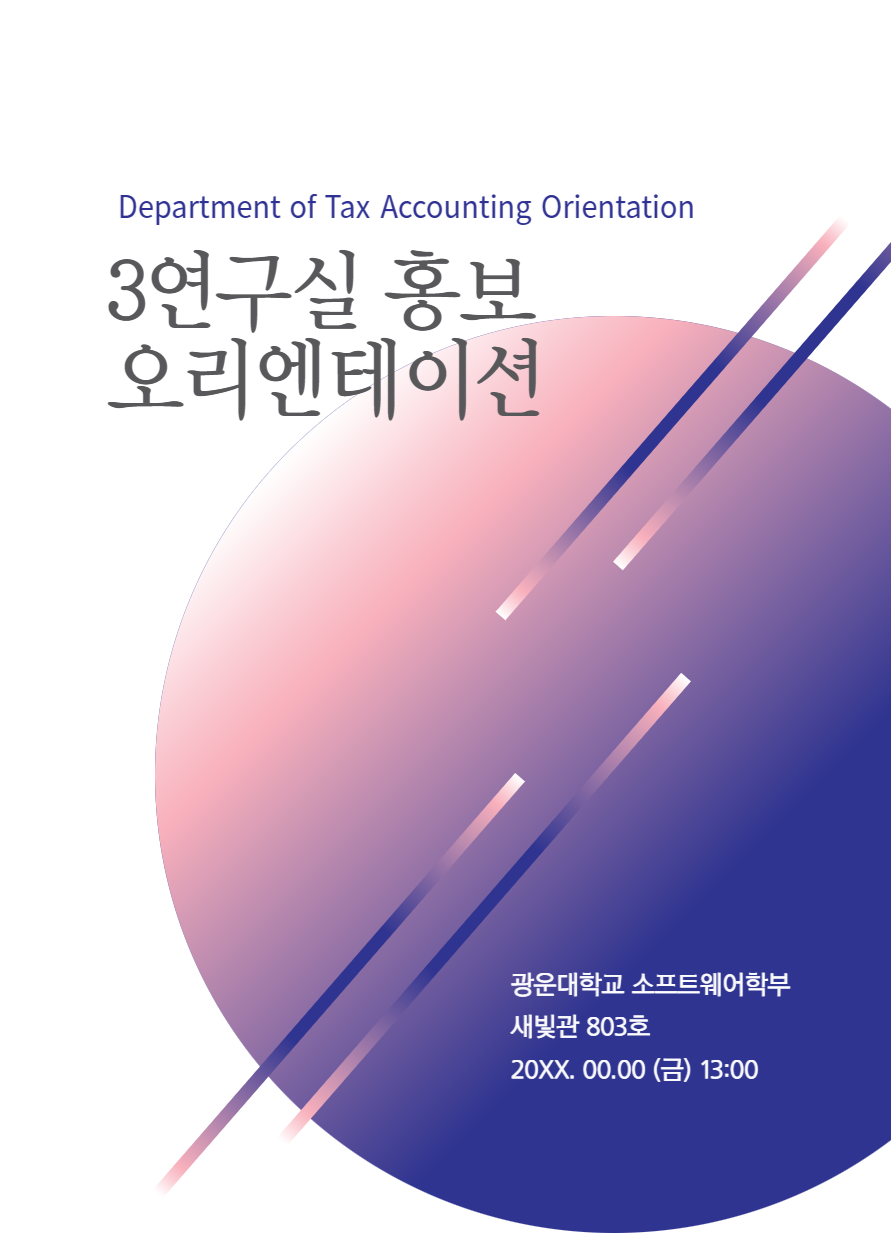
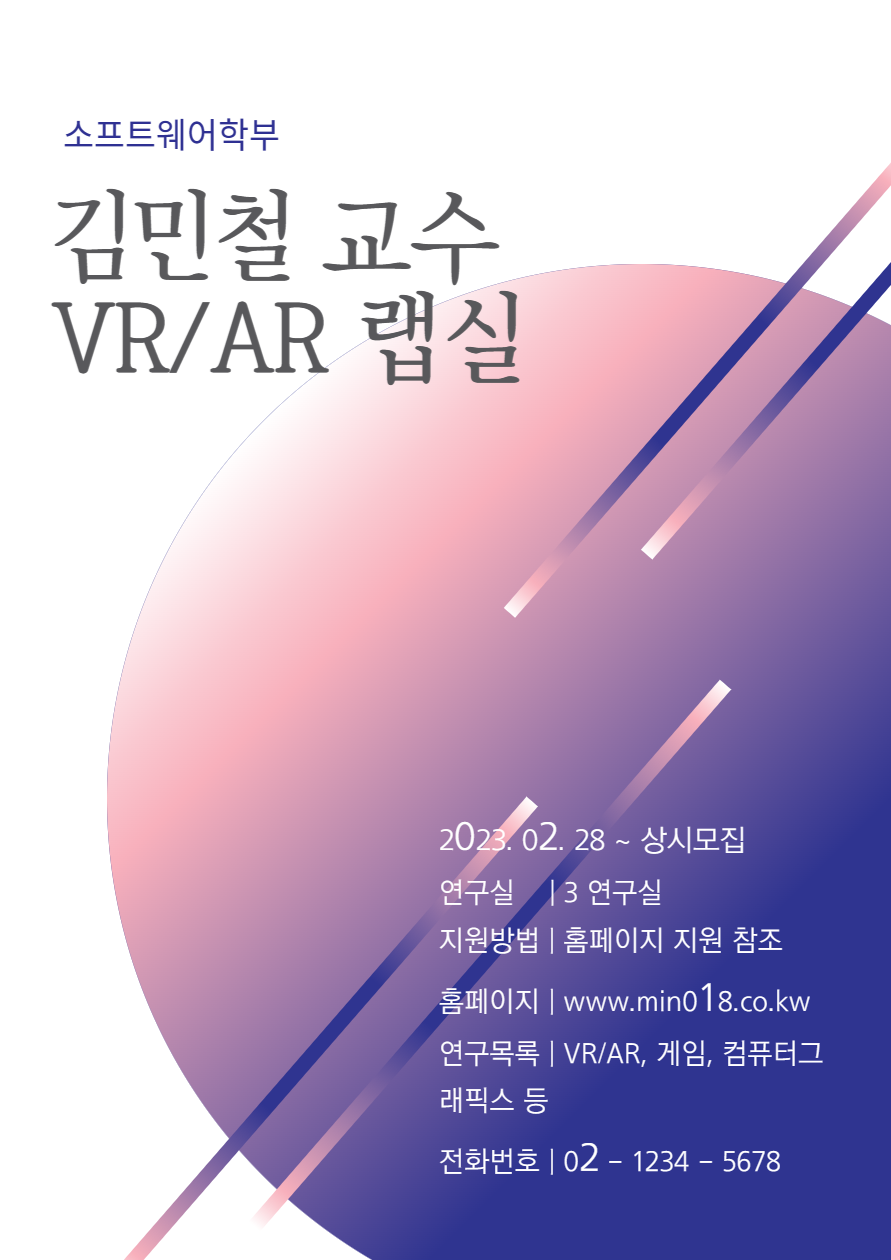
이미지 변경 및 포스터 텍스트 삭제

diff --git a/WindowsFormsApp2/UDC/Room_Board.Designer.cs b/WindowsFormsApp2/UDC/Room_Board.Designer.cs
@@ -31,21 +31,22 @@
             System.ComponentModel.ComponentResourceManager resources = new System.ComponentModel.ComponentResourceManager(typeof(Room_Board));
             this.Poster_1 = new System.Windows.Forms.PictureBox();
             this.Poster_4 = new System.Windows.Forms.PictureBox();
-            this.pictureBox1 = new System.Windows.Forms.PictureBox();
+            this.board_2f = new System.Windows.Forms.PictureBox();
             this.zoomPoster = new System.Windows.Forms.PictureBox();
             this.blackBack = new System.Windows.Forms.Panel();
             ((System.ComponentModel.ISupportInitialize)(this.Poster_1)).BeginInit();
             ((System.ComponentModel.ISupportInitialize)(this.Poster_4)).BeginInit();
-            ((System.ComponentModel.ISupportInitialize)(this.pictureBox1)).BeginInit();
+            ((System.ComponentModel.ISupportInitialize)(this.board_2f)).BeginInit();
             ((System.ComponentModel.ISupportInitialize)(this.zoomPoster)).BeginInit();
             this.SuspendLayout();
             // 
             // Poster_1
             // 
+            this.Poster_1.BackColor = System.Drawing.Color.Transparent;
             this.Poster_1.Image = global::WindowsFormsApp2.Properties.Resources._2F_Poster1;
             this.Poster_1.Location = new System.Drawing.Point(682, 360);
             this.Poster_1.Name = "Poster_1";
-            this.Poster_1.Size = new System.Drawing.Size(144, 175);
+            this.Poster_1.Size = new System.Drawing.Size(144, 185);
             this.Poster_1.SizeMode = System.Windows.Forms.PictureBoxSizeMode.StretchImage;
             this.Poster_1.TabIndex = 2;
             this.Poster_1.TabStop = false;
@@ -53,6 +54,7 @@
             // 
             // Poster_4
             // 
+            this.Poster_4.BackColor = System.Drawing.Color.Transparent;
             this.Poster_4.Image = global::WindowsFormsApp2.Properties.Resources._2F_Poster4;
             this.Poster_4.Location = new System.Drawing.Point(146, 476);
             this.Poster_4.Name = "Poster_4";
@@ -62,18 +64,18 @@
             this.Poster_4.TabStop = false;
             this.Poster_4.Click += new System.EventHandler(this.Poster_4_Click);
             // 
-            // pictureBox1
+            // board_2f
             // 
-            this.pictureBox1.BackColor = System.Drawing.SystemColors.ActiveCaption;
-            this.pictureBox1.BackgroundImage = ((System.Drawing.Image)(resources.GetObject("pictureBox1.BackgroundImage")));
-            this.pictureBox1.BackgroundImageLayout = System.Windows.Forms.ImageLayout.Stretch;
-            this.pictureBox1.Dock = System.Windows.Forms.DockStyle.Fill;
-            this.pictureBox1.Location = new System.Drawing.Point(0, 0);
-            this.pictureBox1.Name = "pictureBox1";
-            this.pictureBox1.Size = new System.Drawing.Size(1200, 800);
-            this.pictureBox1.TabIndex = 0;
-            this.pictureBox1.TabStop = false;
-            this.pictureBox1.MouseClick += new System.Windows.Forms.MouseEventHandler(this.pictureBox1_MouseClick);
+            this.board_2f.BackColor = System.Drawing.SystemColors.ActiveCaption;
+            this.board_2f.BackgroundImage = ((System.Drawing.Image)(resources.GetObject("board_2f.BackgroundImage")));
+            this.board_2f.BackgroundImageLayout = System.Windows.Forms.ImageLayout.Stretch;
+            this.board_2f.Dock = System.Windows.Forms.DockStyle.Fill;
+            this.board_2f.Location = new System.Drawing.Point(0, 0);
+            this.board_2f.Name = "board_2f";
+            this.board_2f.Size = new System.Drawing.Size(1200, 800);
+            this.board_2f.TabIndex = 0;
+            this.board_2f.TabStop = false;
+            this.board_2f.MouseClick += new System.Windows.Forms.MouseEventHandler(this.pictureBox1_MouseClick);
             // 
             // zoomPoster
             // 
@@ -99,13 +101,13 @@
             this.Controls.Add(this.zoomPoster);
             this.Controls.Add(this.Poster_1);
             this.Controls.Add(this.Poster_4);
-            this.Controls.Add(this.pictureBox1);
+            this.Controls.Add(this.board_2f);
             this.Name = "Room_Board";
             this.Size = new System.Drawing.Size(1200, 800);
             this.Load += new System.EventHandler(this.Room_Board_Load);
             ((System.ComponentModel.ISupportInitialize)(this.Poster_1)).EndInit();
             ((System.ComponentModel.ISupportInitialize)(this.Poster_4)).EndInit();
-            ((System.ComponentModel.ISupportInitialize)(this.pictureBox1)).EndInit();
+            ((System.ComponentModel.ISupportInitialize)(this.board_2f)).EndInit();
             ((System.ComponentModel.ISupportInitialize)(this.zoomPoster)).EndInit();
             this.ResumeLayout(false);
 
@@ -113,7 +115,7 @@
 
         #endregion
 
-        private System.Windows.Forms.PictureBox pictureBox1;
+        private System.Windows.Forms.PictureBox board_2f;
         private System.Windows.Forms.PictureBox Poster_4;
         private System.Windows.Forms.PictureBox Poster_1;
         private System.Windows.Forms.PictureBox zoomPoster;

diff --git a/WindowsFormsApp2/UDC/Room_Board.cs b/WindowsFormsApp2/UDC/Room_Board.cs
@@ -25,13 +25,19 @@ namespace WindowsFormsApp2.UDC
             blackBack.Visible = false;
             //black_back.Visible = false; 
 
-
         }
         public Room_Board(ControlConversationUDC controller)
         {
             InitializeComponent();
             zoomPoster.Visible = false;
             blackBack.Visible= false;
+
+            Poster_1.BackColor = Color.Transparent;
+            Poster_1.Parent = board_2f;
+
+            Poster_4.BackColor = Color.Transparent;
+            Poster_4.Parent = board_2f;
+
             this.controller=controller;
             //black_back.Visible = false; 
 
@@ -98,12 +104,12 @@ namespace WindowsFormsApp2.UDC
             zoomPoster.Top = zoomPoster.Height / 8;
             zoomPoster.Left=this.Width / 2 - zoomPoster.Width/2;
 
-            info.AutoSize = true;
-            info.Font = new Font("Gulim", 15);
-            info.ForeColor = Color.Black;
-            info.Text = "1연구실 전화번호: 02-6462-36";
-            info.Location = new Point(zoomPoster.Right-info.Width, zoomPoster.Bottom-info.Height);
-            info.Visible = true;
+            //info.AutoSize = true;
+            //info.Font = new Font("Gulim", 15);
+            //info.ForeColor = Color.Black;
+            //info.Text = "실습실이 잠겨있다면\r\n 경비실에 방문바랍니다.";
+            //info.Location = new Point(zoomPoster.Right-info.Width, zoomPoster.Bottom-info.Height);
+            //info.Visible = true;
             info.BringToFront();
             if (StaticItem.mPapper1)
             {
@@ -127,13 +133,13 @@ namespace WindowsFormsApp2.UDC
 
             zoomPoster.Location = new Point(this.Width / 2 - zoomPoster.Width / 2, this.Height / 2 - zoomPoster.Height / 2);
             info.Location = new Point(zoomPoster.Left+zoomPoster.Width/8, zoomPoster.Top+zoomPoster.Height/3);
-            info.AutoSize = true;
-            info.Font= new Font("Gulim", 15);
-            info.ForeColor = Color.Black;
-            info.Text = "실습실이 잠겨있다면\r\n 경비실에 방문바랍니다.";
-            info.Visible = true;
+            //info.AutoSize = true;
+            //info.Font= new Font("Gulim", 15);
+            //info.ForeColor = Color.Black;
+            //info.Text = "실습실이 잠겨있다면\r\n 경비실에 방문바랍니다.";
+            //info.Visible = true;
             info.Image = new Bitmap(Properties.Resources._2F_Poster4,info.Size);
-            info.BackColor = Color.Transparent;
+            //info.BackColor = Color.Transparent;
             info.BringToFront();
             //zoomPoster.Top = zoomPoster.Height / 8;
             //zoomPoster.Left = this.Width / 2 - zoomPoster.Width / 2;

diff --git a/WindowsFormsApp2/Forms/temp.Designer.cs b/WindowsFormsApp2/Forms/temp.Designer.cs
@@ -28,22 +28,22 @@
         /// </summary>
         private void InitializeComponent()
         {
-            this.room_department1 = new WindowsFormsApp2.UDC.Room_department();
+            this.room_Board1 = new WindowsFormsApp2.UDC.Room_Board();
             this.SuspendLayout();
             // 
-            // room_department1
-
-            this.room_department1.Location = new System.Drawing.Point(0, 0);
-            this.room_department1.Name = "room_department1";
-            this.room_department1.Size = new System.Drawing.Size(1200, 800);
-            this.room_department1.TabIndex = 0;
+            // room_Board1
+            // 
+            this.room_Board1.Location = new System.Drawing.Point(1, -1);
+            this.room_Board1.Name = "room_Board1";
+            this.room_Board1.Size = new System.Drawing.Size(1200, 800);
+            this.room_Board1.TabIndex = 1;
             // 
             // temp
             // 
             this.AutoScaleDimensions = new System.Drawing.SizeF(8F, 15F);
             this.AutoScaleMode = System.Windows.Forms.AutoScaleMode.Font;
             this.ClientSize = new System.Drawing.Size(1200, 800);
-            this.Controls.Add(this.room_department1);
+            this.Controls.Add(this.room_Board1);
             this.Name = "temp";
             this.Text = "temp";
             this.ResumeLayout(false);
@@ -52,6 +52,6 @@
 
         #endregion
 
-        private UDC.Room_department room_department1;
+        private UDC.Room_Board room_Board1;
     }
 }
